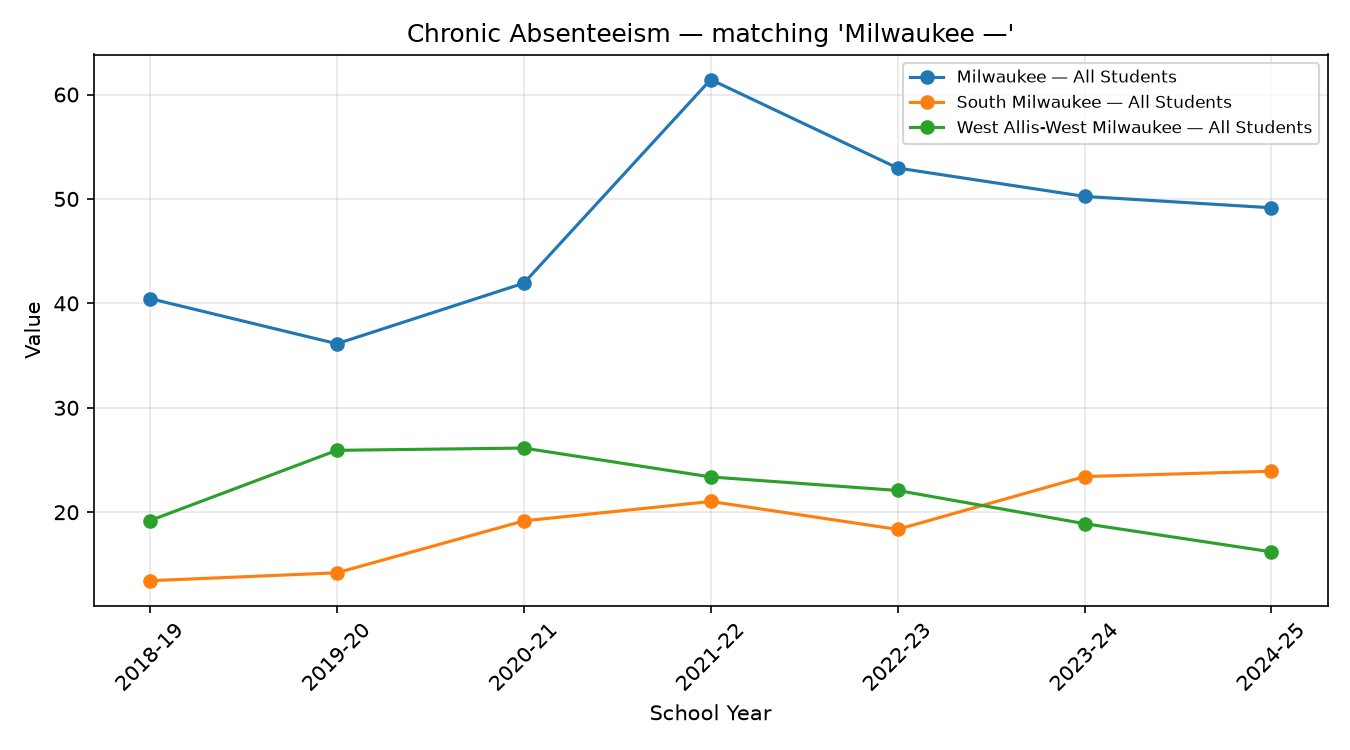
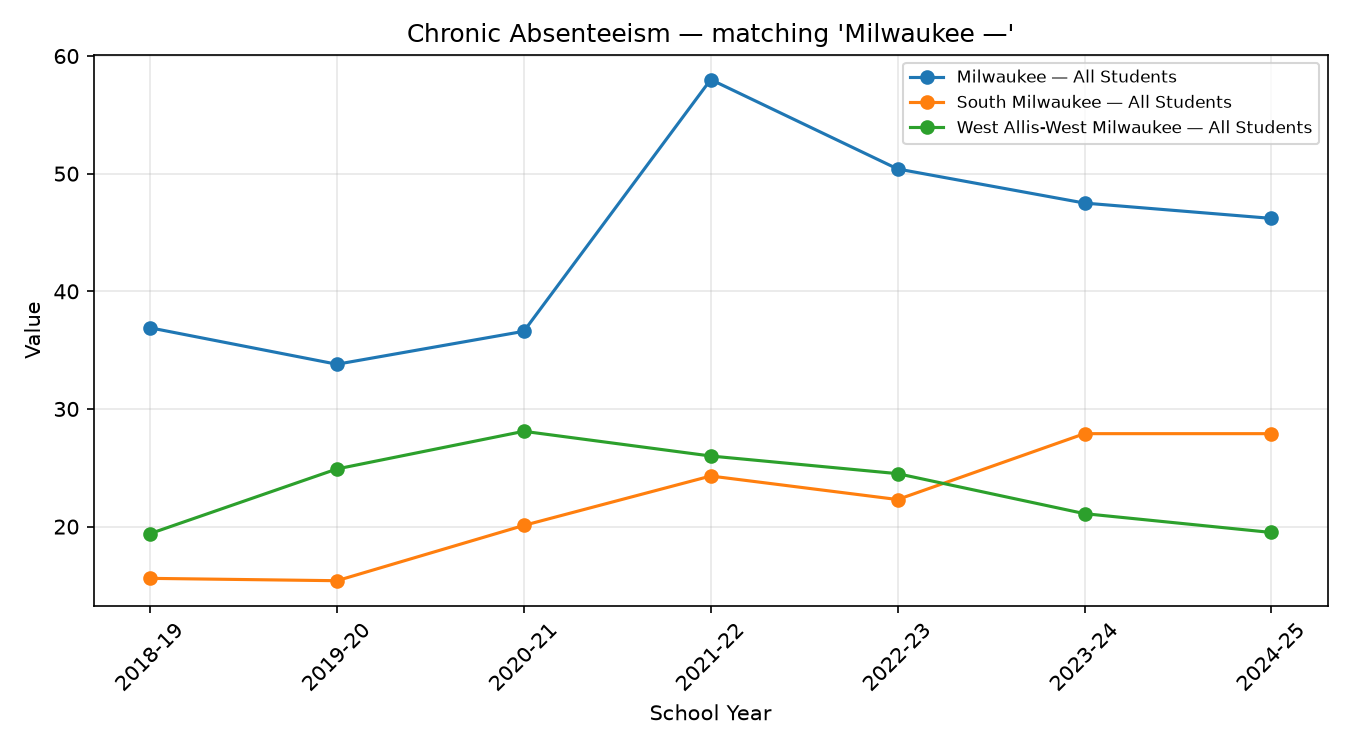
Auto-update Milwaukee data (run 6)

diff --git a/SUMMARY.md b/SUMMARY.md
@@ -1,34 +1,34 @@
 # Weekly Data Flag Summary
 
-- **discipline_incidents** (Glendale-River Hills — All Students) up inf% in 2021-22 (value: 114.0)
-- **discipline_incidents** (Maple Dale-Indian Hill — All Students) up inf% in 2021-22 (value: 19.0)
-- **discipline** (Stellar Collegiate Charter School — All Students) up inf% in 2021-22 (value: 50.0)
-- **discipline_incidents** (Fox Point J2 — All Students) up inf% in 2020-21 (value: 17.0)
-- **discipline** (Fox Point J2 — All Students) up inf% in 2020-21 (value: 17.0)
+- **discipline_incidents** (Stellar Collegiate Charter School — All Students) up inf% in 2021-22 (value: 50.0)
 - **discipline_incidents** (Rocketship Education Wisconsin Inc — All Students) up inf% in 2023-24 (value: 105.0)
-- **discipline** (Milwaukee Scholars Charter School — All Students) up inf% in 2021-22 (value: 133.0)
-- **discipline** (Woodlands School — All Students) up inf% in 2021-22 (value: 10.0)
-- **discipline_incidents** (Central City Cyberschool — All Students) up inf% in 2021-22 (value: 23.0)
-- **discipline** (Rocketship Education Wisconsin Inc — All Students) up inf% in 2023-24 (value: 105.0)
-- **discipline_incidents** (Milwaukee Scholars Charter School — All Students) up inf% in 2021-22 (value: 133.0)
+- **discipline_incidents** (Shorewood — All Students) up inf% in 2021-22 (value: 83.0)
 - **discipline** (Central City Cyberschool — All Students) up inf% in 2021-22 (value: 23.0)
+- **discipline** (Fox Point J2 — All Students) up inf% in 2020-21 (value: 17.0)
+- **discipline_incidents** (Maple Dale-Indian Hill — All Students) up inf% in 2021-22 (value: 19.0)
+- **discipline_incidents** (Glendale-River Hills — All Students) up inf% in 2021-22 (value: 114.0)
+- **discipline_incidents** (Milwaukee Scholars Charter School — All Students) up inf% in 2021-22 (value: 133.0)
+- **discipline_incidents** (Pathways High Inc — All Students) up inf% in 2024-25 (value: 3.0)
+- **discipline** (Woodlands School — All Students) up inf% in 2021-22 (value: 10.0)
+- **discipline** (Glendale-River Hills — All Students) up inf% in 2021-22 (value: 114.0)
+- **discipline** (Milwaukee Scholars Charter School — All Students) up inf% in 2021-22 (value: 133.0)
+- **discipline_incidents** (Woodlands School — All Students) up inf% in 2021-22 (value: 10.0)
+- **discipline** (Rocketship Education Wisconsin Inc — All Students) up inf% in 2023-24 (value: 105.0)
 - **discipline** (Shorewood — All Students) up inf% in 2021-22 (value: 84.0)
 - **discipline** (Maple Dale-Indian Hill — All Students) up inf% in 2021-22 (value: 19.0)
-- **discipline** (Glendale-River Hills — All Students) up inf% in 2021-22 (value: 114.0)
-- **discipline_incidents** (Stellar Collegiate Charter School — All Students) up inf% in 2021-22 (value: 50.0)
-- **discipline_incidents** (Shorewood — All Students) up inf% in 2021-22 (value: 83.0)
-- **discipline_incidents** (Woodlands School — All Students) up inf% in 2021-22 (value: 10.0)
-- **discipline_incidents** (Pathways High Inc — All Students) up inf% in 2024-25 (value: 3.0)
+- **discipline** (Stellar Collegiate Charter School — All Students) up inf% in 2021-22 (value: 50.0)
+- **discipline_incidents** (Fox Point J2 — All Students) up inf% in 2020-21 (value: 17.0)
+- **discipline_incidents** (Central City Cyberschool — All Students) up inf% in 2021-22 (value: 23.0)
 - **discipline** (Milwaukee — All Students) up 264644.4% in 2021-22 (value: 23827.0)
 - **discipline_incidents** (Milwaukee — All Students) up 262600.0% in 2021-22 (value: 23643.0)
-- **discipline** (Milwaukee Academy of Science — All Students) up 33300.0% in 2021-22 (value: 668.0)
 - **discipline_incidents** (Milwaukee Academy of Science — All Students) up 33300.0% in 2021-22 (value: 668.0)
+- **discipline** (Milwaukee Academy of Science — All Students) up 33300.0% in 2021-22 (value: 668.0)
 - **discipline** (Dr Howard Fuller Collegiate Academy — All Students) up 11600.0% in 2021-22 (value: 117.0)
 - **discipline_incidents** (Dr Howard Fuller Collegiate Academy — All Students) up 10800.0% in 2021-22 (value: 109.0)
 - **discipline** (Seeds of Health Inc — All Students) up 1783.3% in 2021-22 (value: 113.0)
 - **discipline_incidents** (Seeds of Health Inc — All Students) up 1783.3% in 2021-22 (value: 113.0)
-- **discipline_incidents** (Brown Deer — All Students) up 1533.3% in 2021-22 (value: 49.0)
 - **discipline** (Brown Deer — All Students) up 1533.3% in 2021-22 (value: 49.0)
+- **discipline_incidents** (Brown Deer — All Students) up 1533.3% in 2021-22 (value: 49.0)
 - **discipline** (West Allis-West Milwaukee — All Students) up 1465.8% in 2021-22 (value: 595.0)
 - **discipline_incidents** (West Allis-West Milwaukee — All Students) up 1444.7% in 2021-22 (value: 587.0)
 - **discipline** (Cudahy — All Students) up 1210.5% in 2021-22 (value: 249.0)
@@ -37,24 +37,24 @@
 - **discipline_incidents** (Woodlands School — All Students) up 1100.0% in 2019-20 (value: 12.0)
 - **chronic_absenteeism** (Greendale — All Students) up 786.5% in 2020-21 (value: 46.1)
 - **chronic_absenteeism** (Maple Dale-Indian Hill — All Students) up 600.0% in 2021-22 (value: 10.5)
-- **discipline** (South Milwaukee — All Students) up 572.3% in 2021-22 (value: 316.0)
 - **discipline_incidents** (South Milwaukee — All Students) up 572.3% in 2021-22 (value: 316.0)
-- **discipline_incidents** (Bruce Guadalupe — All Students) up 550.0% in 2021-22 (value: 52.0)
-- **discipline_incidents** (Escuela Verde — All Students) up 550.0% in 2021-22 (value: 13.0)
+- **discipline** (South Milwaukee — All Students) up 572.3% in 2021-22 (value: 316.0)
 - **discipline** (Bruce Guadalupe — All Students) up 550.0% in 2021-22 (value: 52.0)
+- **discipline_incidents** (Escuela Verde — All Students) up 550.0% in 2021-22 (value: 13.0)
+- **discipline_incidents** (Bruce Guadalupe — All Students) up 550.0% in 2021-22 (value: 52.0)
 - **discipline_incidents** (Glendale-River Hills — All Students) up 407.4% in 2024-25 (value: 137.0)
 - **discipline** (Glendale-River Hills — All Students) up 407.4% in 2024-25 (value: 137.0)
 - **chronic_absenteeism** (Fox Point J2 — All Students) up 388.9% in 2021-22 (value: 4.4)
 - **discipline** (Wauwatosa — All Students) up 362.7% in 2021-22 (value: 620.0)
 - **discipline_incidents** (Wauwatosa — All Students) up 361.9% in 2021-22 (value: 619.0)
 - **chronic_absenteeism** (Shorewood — All Students) up 333.3% in 2021-22 (value: 27.3)
-- **discipline_incidents** (Whitefish Bay — All Students) up 321.4% in 2021-22 (value: 59.0)
 - **discipline** (Whitefish Bay — All Students) up 321.4% in 2021-22 (value: 59.0)
-- **discipline_incidents** (Brown Deer — All Students) up 317.6% in 2023-24 (value: 71.0)
+- **discipline_incidents** (Whitefish Bay — All Students) up 321.4% in 2021-22 (value: 59.0)
 - **discipline** (Brown Deer — All Students) up 317.6% in 2023-24 (value: 71.0)
+- **discipline_incidents** (Brown Deer — All Students) up 317.6% in 2023-24 (value: 71.0)
 - **chronic_absenteeism** (Glendale-River Hills — All Students) up 271.4% in 2021-22 (value: 10.4)
-- **discipline_incidents** (Whitnall — All Students) up 241.1% in 2021-22 (value: 191.0)
 - **discipline** (Whitnall — All Students) up 241.1% in 2021-22 (value: 191.0)
+- **discipline_incidents** (Whitnall — All Students) up 241.1% in 2021-22 (value: 191.0)
 - **discipline_incidents** (Saint Francis — All Students) up 230.6% in 2021-22 (value: 119.0)
 - **discipline** (Saint Francis — All Students) up 230.6% in 2021-22 (value: 119.0)
 - **discipline_incidents** (Trans Center for Youth Inc — All Students) up 214.3% in 2024-25 (value: 22.0)
@@ -70,53 +70,53 @@
 - **discipline** (Nicolet Union High School — All Students) up 132.0% in 2024-25 (value: 58.0)
 - **chronic_absenteeism** (Brown Deer — All Students) up 131.6% in 2021-22 (value: 48.4)
 - **chronic_absenteeism** (Seeds of Health Inc — All Students) up 108.9% in 2020-21 (value: 37.6)
-- **discipline_incidents** (Bruce Guadalupe — All Students) up 104.2% in 2019-20 (value: 49.0)
 - **discipline** (Bruce Guadalupe — All Students) up 104.2% in 2019-20 (value: 49.0)
-- **discipline** (Milwaukee Scholars Charter School — All Students) down 100.0% in 2020-21 (value: 0.0)
-- **discipline_incidents** (Fox Point J2 — All Students) down 100.0% in 2019-20 (value: 0.0)
-- **discipline** (Glendale-River Hills — All Students) down 100.0% in 2020-21 (value: 0.0)
-- **discipline_incidents** (Maple Dale-Indian Hill — All Students) down 100.0% in 2020-21 (value: 0.0)
-- **discipline** (Maple Dale-Indian Hill — All Students) down 100.0% in 2020-21 (value: 0.0)
-- **discipline** (Fox Point J2 — All Students) down 100.0% in 2019-20 (value: 0.0)
-- **discipline** (Central City Cyberschool — All Students) down 100.0% in 2020-21 (value: 0.0)
-- **discipline_incidents** (Central City Cyberschool — All Students) down 100.0% in 2020-21 (value: 0.0)
-- **discipline** (Rocketship Education Wisconsin Inc — All Students) down 100.0% in 2020-21 (value: 0.0)
-- **discipline** (Shorewood — All Students) down 100.0% in 2020-21 (value: 0.0)
-- **discipline_incidents** (Glendale-River Hills — All Students) down 100.0% in 2020-21 (value: 0.0)
-- **discipline** (Woodlands School — All Students) down 100.0% in 2020-21 (value: 0.0)
-- **discipline_incidents** (Rocketship Education Wisconsin Inc — All Students) down 100.0% in 2020-21 (value: 0.0)
-- **discipline_incidents** (Woodlands School — All Students) down 100.0% in 2020-21 (value: 0.0)
-- **discipline_incidents** (Milwaukee Scholars Charter School — All Students) down 100.0% in 2020-21 (value: 0.0)
+- **discipline_incidents** (Bruce Guadalupe — All Students) up 104.2% in 2019-20 (value: 49.0)
 - **discipline_incidents** (Shorewood — All Students) down 100.0% in 2020-21 (value: 0.0)
+- **discipline_incidents** (Milwaukee Scholars Charter School — All Students) down 100.0% in 2020-21 (value: 0.0)
+- **discipline** (Woodlands School — All Students) down 100.0% in 2020-21 (value: 0.0)
+- **discipline** (Rocketship Education Wisconsin Inc — All Students) down 100.0% in 2020-21 (value: 0.0)
+- **discipline_incidents** (Woodlands School — All Students) down 100.0% in 2020-21 (value: 0.0)
+- **discipline** (Shorewood — All Students) down 100.0% in 2020-21 (value: 0.0)
+- **discipline** (Maple Dale-Indian Hill — All Students) down 100.0% in 2020-21 (value: 0.0)
+- **discipline** (Milwaukee Scholars Charter School — All Students) down 100.0% in 2020-21 (value: 0.0)
+- **discipline** (Glendale-River Hills — All Students) down 100.0% in 2020-21 (value: 0.0)
+- **discipline_incidents** (Fox Point J2 — All Students) down 100.0% in 2019-20 (value: 0.0)
+- **discipline** (Central City Cyberschool — All Students) down 100.0% in 2020-21 (value: 0.0)
+- **discipline** (Fox Point J2 — All Students) down 100.0% in 2019-20 (value: 0.0)
+- **discipline_incidents** (Central City Cyberschool — All Students) down 100.0% in 2020-21 (value: 0.0)
+- **discipline_incidents** (Glendale-River Hills — All Students) down 100.0% in 2020-21 (value: 0.0)
+- **discipline_incidents** (Maple Dale-Indian Hill — All Students) down 100.0% in 2020-21 (value: 0.0)
+- **discipline_incidents** (Rocketship Education Wisconsin Inc — All Students) down 100.0% in 2020-21 (value: 0.0)
 - **discipline_incidents** (Milwaukee — All Students) down 99.9% in 2020-21 (value: 9.0)
 - **discipline** (Milwaukee — All Students) down 99.9% in 2020-21 (value: 9.0)
-- **discipline_incidents** (Milwaukee Academy of Science — All Students) down 99.5% in 2020-21 (value: 2.0)
 - **discipline** (Milwaukee Academy of Science — All Students) down 99.5% in 2020-21 (value: 2.0)
+- **discipline_incidents** (Milwaukee Academy of Science — All Students) down 99.5% in 2020-21 (value: 2.0)
 - **discipline** (Dr Howard Fuller Collegiate Academy — All Students) down 98.6% in 2020-21 (value: 1.0)
 - **discipline_incidents** (Dr Howard Fuller Collegiate Academy — All Students) down 98.6% in 2020-21 (value: 1.0)
-- **discipline** (Brown Deer — All Students) down 96.7% in 2020-21 (value: 3.0)
 - **discipline_incidents** (Brown Deer — All Students) down 96.7% in 2020-21 (value: 3.0)
+- **discipline** (Brown Deer — All Students) down 96.7% in 2020-21 (value: 3.0)
 - **discipline_incidents** (Woodlands School - State Street Campus — All Students) down 94.6% in 2019-20 (value: 2.0)
 - **discipline** (Woodlands School - State Street Campus — All Students) down 94.6% in 2019-20 (value: 2.0)
 - **discipline** (Seeds of Health Inc — All Students) down 94.2% in 2020-21 (value: 6.0)
 - **discipline_incidents** (Seeds of Health Inc — All Students) down 94.1% in 2020-21 (value: 6.0)
 - **chronic_absenteeism** (Wauwatosa — All Students) up 93.2% in 2020-21 (value: 22.6)
-- **discipline** (West Allis-West Milwaukee — All Students) down 91.4% in 2020-21 (value: 38.0)
 - **discipline_incidents** (West Allis-West Milwaukee — All Students) down 91.4% in 2020-21 (value: 38.0)
+- **discipline** (West Allis-West Milwaukee — All Students) down 91.4% in 2020-21 (value: 38.0)
 - **discipline** (Greendale — All Students) up 89.1% in 2022-23 (value: 121.0)
 - **chronic_absenteeism** (Greenfield — All Students) up 86.5% in 2021-22 (value: 17.9)
 - **discipline_incidents** (Greendale — All Students) up 85.9% in 2022-23 (value: 119.0)
 - **chronic_absenteeism** (Greendale — All Students) down 84.6% in 2021-22 (value: 7.1)
-- **discipline** (Whitefish Bay — All Students) down 84.1% in 2024-25 (value: 13.0)
 - **discipline_incidents** (Whitefish Bay — All Students) down 84.1% in 2024-25 (value: 13.0)
-- **discipline_incidents** (Bruce Guadalupe — All Students) down 83.7% in 2020-21 (value: 8.0)
+- **discipline** (Whitefish Bay — All Students) down 84.1% in 2024-25 (value: 13.0)
 - **discipline** (Bruce Guadalupe — All Students) down 83.7% in 2020-21 (value: 8.0)
+- **discipline_incidents** (Bruce Guadalupe — All Students) down 83.7% in 2020-21 (value: 8.0)
 - **chronic_absenteeism** (Fox Point J2 — All Students) down 83.6% in 2020-21 (value: 0.9)
 - **chronic_absenteeism** (Saint Francis — All Students) up 82.2% in 2021-22 (value: 35.9)
 - **discipline** (Central City Cyberschool — All Students) up 81.6% in 2019-20 (value: 69.0)
-- **discipline** (Cudahy — All Students) down 81.6% in 2020-21 (value: 19.0)
 - **discipline_incidents** (Cudahy — All Students) down 81.6% in 2020-21 (value: 19.0)
 - **discipline_incidents** (Central City Cyberschool — All Students) up 81.6% in 2019-20 (value: 69.0)
+- **discipline** (Cudahy — All Students) down 81.6% in 2020-21 (value: 19.0)
 - **discipline_incidents** (South Milwaukee — All Students) down 80.7% in 2020-21 (value: 47.0)
 - **discipline** (South Milwaukee — All Students) down 80.7% in 2020-21 (value: 47.0)
 - **discipline** (Nicolet UHS — All Students) down 80.6% in 2020-21 (value: 7.0)
@@ -129,16 +129,16 @@
 - **chronic_absenteeism** (Fox Point J2 — All Students) up 72.7% in 2022-23 (value: 7.6)
 - **discipline_incidents** (Glendale-River Hills — All Students) down 72.5% in 2019-20 (value: 11.0)
 - **discipline** (Glendale-River Hills — All Students) down 72.5% in 2019-20 (value: 11.0)
-- **discipline_incidents** (Seeds of Health Inc — All Students) up 70.8% in 2022-23 (value: 193.0)
 - **discipline** (Seeds of Health Inc — All Students) up 70.8% in 2022-23 (value: 193.0)
-- **discipline** (Wauwatosa — All Students) down 66.7% in 2020-21 (value: 134.0)
+- **discipline_incidents** (Seeds of Health Inc — All Students) up 70.8% in 2022-23 (value: 193.0)
 - **discipline_incidents** (Wauwatosa — All Students) down 66.7% in 2020-21 (value: 134.0)
-- **discipline_incidents** (Whitefish Bay — All Students) down 66.7% in 2020-21 (value: 14.0)
 - **discipline** (Whitefish Bay — All Students) down 66.7% in 2020-21 (value: 14.0)
+- **discipline_incidents** (Whitefish Bay — All Students) down 66.7% in 2020-21 (value: 14.0)
+- **discipline** (Wauwatosa — All Students) down 66.7% in 2020-21 (value: 134.0)
 - **discipline** (Greendale — All Students) down 66.1% in 2020-21 (value: 21.0)
 - **discipline_incidents** (Greendale — All Students) down 66.1% in 2020-21 (value: 21.0)
-- **discipline_incidents** (Brown Deer — All Students) down 65.3% in 2022-23 (value: 17.0)
 - **discipline** (Brown Deer — All Students) down 65.3% in 2022-23 (value: 17.0)
+- **discipline_incidents** (Brown Deer — All Students) down 65.3% in 2022-23 (value: 17.0)
 - **discipline** (Saint Francis — All Students) down 65.0% in 2020-21 (value: 36.0)
 - **discipline_incidents** (Saint Francis — All Students) down 65.0% in 2020-21 (value: 36.0)
 - **chronic_absenteeism** (Milwaukee Scholars Charter School — All Students) up 63.5% in 2021-22 (value: 59.2)
@@ -154,15 +154,15 @@
 - **discipline_incidents** (Cudahy — All Students) down 60.2% in 2019-20 (value: 103.0)
 - **chronic_absenteeism** (Woodlands School — All Students) up 59.4% in 2021-22 (value: 33.8)
 - **chronic_absenteeism** (Milwaukee — All Students) up 58.5% in 2021-22 (value: 58.0)
-- **discipline_incidents** (Glendale-River Hills — All Students) down 57.0% in 2022-23 (value: 49.0)
 - **discipline** (Glendale-River Hills — All Students) down 57.0% in 2022-23 (value: 49.0)
+- **discipline_incidents** (Glendale-River Hills — All Students) down 57.0% in 2022-23 (value: 49.0)
 - **discipline** (Milwaukee Science Education Consortium Inc — All Students) up 56.4% in 2024-25 (value: 760.0)
 - **discipline_incidents** (Milwaukee Science Education Consortium Inc — All Students) up 56.4% in 2024-25 (value: 760.0)
-- **discipline** (Milwaukee Scholars Charter School — All Students) down 54.7% in 2019-20 (value: 186.0)
 - **discipline_incidents** (Milwaukee Scholars Charter School — All Students) down 54.7% in 2019-20 (value: 186.0)
 - **chronic_absenteeism** (Whitefish Bay — All Students) down 54.7% in 2023-24 (value: 2.4)
-- **discipline** (Maple Dale-Indian Hill — All Students) down 52.6% in 2022-23 (value: 9.0)
+- **discipline** (Milwaukee Scholars Charter School — All Students) down 54.7% in 2019-20 (value: 186.0)
 - **discipline_incidents** (Maple Dale-Indian Hill — All Students) down 52.6% in 2022-23 (value: 9.0)
+- **discipline** (Maple Dale-Indian Hill — All Students) down 52.6% in 2022-23 (value: 9.0)
 - **discipline_incidents** (Whitnall — All Students) down 52.5% in 2020-21 (value: 56.0)
 - **discipline** (Whitnall — All Students) down 52.5% in 2020-21 (value: 56.0)
 - **discipline_incidents** (United Community Center Acosta Middle — All Students) down 52.1% in 2019-20 (value: 23.0)
@@ -171,28 +171,28 @@
 - **chronic_absenteeism** (Shorewood — All Students) down 50.4% in 2020-21 (value: 6.3)
 - **discipline_incidents** (Maple Dale-Indian Hill — All Students) up 50.0% in 2019-20 (value: 15.0)
 - **discipline_incidents** (Nicolet Union High School — All Students) down 50.0% in 2022-23 (value: 35.0)
-- **discipline** (Rocketship Education Wisconsin Inc — All Students) down 50.0% in 2019-20 (value: 5.0)
 - **discipline_incidents** (Rocketship Education Wisconsin Inc — All Students) down 50.0% in 2019-20 (value: 5.0)
 - **discipline** (Maple Dale-Indian Hill — All Students) up 50.0% in 2019-20 (value: 15.0)
+- **discipline** (Rocketship Education Wisconsin Inc — All Students) down 50.0% in 2019-20 (value: 5.0)
 - **discipline_incidents** (Shorewood — All Students) down 49.4% in 2023-24 (value: 42.0)
 - **discipline** (Nicolet Union High School — All Students) down 49.3% in 2022-23 (value: 36.0)
 - **discipline** (Oak Creek-Franklin Joint — All Students) down 48.2% in 2020-21 (value: 144.0)
 - **chronic_absenteeism** (Shorewood — All Students) down 48.1% in 2023-24 (value: 12.4)
 - **discipline_incidents** (Oak Creek-Franklin Joint — All Students) down 47.4% in 2020-21 (value: 144.0)
 - **discipline_incidents** (Saint Francis — All Students) up 47.1% in 2024-25 (value: 128.0)
-- **chronic_absenteeism** (Greenfield — All Students) down 47.1% in 2019-20 (value: 5.4)
 - **discipline** (Saint Francis — All Students) up 47.1% in 2024-25 (value: 128.0)
+- **chronic_absenteeism** (Greenfield — All Students) down 47.1% in 2019-20 (value: 5.4)
 - **discipline** (Whitnall — All Students) down 46.7% in 2023-24 (value: 114.0)
 - **discipline_incidents** (Whitnall — All Students) down 46.7% in 2023-24 (value: 114.0)
 - **discipline** (Shorewood — All Students) down 46.5% in 2023-24 (value: 46.0)
 - **chronic_absenteeism** (Oak Creek-Franklin Joint — All Students) up 46.3% in 2021-22 (value: 15.8)
-- **discipline** (United Community Center Inc — All Students) down 46.2% in 2024-25 (value: 57.0)
 - **discipline_incidents** (United Community Center Inc — All Students) down 46.2% in 2024-25 (value: 57.0)
+- **discipline** (United Community Center Inc — All Students) down 46.2% in 2024-25 (value: 57.0)
 - **chronic_absenteeism** (Seeds of Health Inc — All Students) up 45.2% in 2019-20 (value: 18.0)
 - **discipline_incidents** (Glendale-River Hills — All Students) down 44.9% in 2023-24 (value: 27.0)
 - **discipline** (Glendale-River Hills — All Students) down 44.9% in 2023-24 (value: 27.0)
-- **discipline_incidents** (Rocketship Education Wisconsin Inc — All Students) down 43.8% in 2024-25 (value: 59.0)
 - **discipline** (Rocketship Education Wisconsin Inc — All Students) down 43.8% in 2024-25 (value: 59.0)
+- **discipline_incidents** (Rocketship Education Wisconsin Inc — All Students) down 43.8% in 2024-25 (value: 59.0)
 - **discipline** (Woodlands School Inc — All Students) up 43.2% in 2024-25 (value: 63.0)
 - **discipline_incidents** (Woodlands School Inc — All Students) up 43.2% in 2024-25 (value: 63.0)
 - **chronic_absenteeism** (Nicolet Union High School — All Students) up 42.1% in 2022-23 (value: 8.1)
@@ -201,10 +201,10 @@
 - **discipline_incidents** (Fox Point J2 — All Students) up 41.2% in 2021-22 (value: 24.0)
 - **chronic_absenteeism** (Milwaukee Academy of Science — All Students) up 41.0% in 2020-21 (value: 42.3)
 - **discipline_incidents** (Oak Creek-Franklin Joint — All Students) down 40.6% in 2019-20 (value: 274.0)
-- **discipline** (Oak Creek-Franklin Joint — All Students) down 40.3% in 2019-20 (value: 278.0)
 - **chronic_absenteeism** (Maple Dale-Indian Hill — All Students) down 40.3% in 2024-25 (value: 4.0)
-- **discipline_incidents** (Greenfield — All Students) down 40.1% in 2020-21 (value: 103.0)
+- **discipline** (Oak Creek-Franklin Joint — All Students) down 40.3% in 2019-20 (value: 278.0)
 - **chronic_absenteeism** (Saint Francis — All Students) down 40.1% in 2022-23 (value: 21.5)
+- **discipline_incidents** (Greenfield — All Students) down 40.1% in 2020-21 (value: 103.0)
 - **discipline** (Central City Cyberschool of Milwaukee Inc — All Students) up 40.0% in 2024-25 (value: 28.0)
 - **discipline_incidents** (Central City Cyberschool of Milwaukee Inc — All Students) up 40.0% in 2024-25 (value: 28.0)
 - **discipline** (Brown Deer — All Students) up 39.4% in 2024-25 (value: 99.0)
@@ -215,16 +215,16 @@
 - **discipline_incidents** (Brown Deer — All Students) up 38.0% in 2024-25 (value: 98.0)
 - **discipline_incidents** (Whitnall — All Students) down 37.9% in 2019-20 (value: 118.0)
 - **discipline** (Whitnall — All Students) down 37.9% in 2019-20 (value: 118.0)
-- **discipline** (Greendale — All Students) down 37.4% in 2019-20 (value: 62.0)
 - **discipline_incidents** (Greendale — All Students) down 37.4% in 2019-20 (value: 62.0)
+- **discipline** (Greendale — All Students) down 37.4% in 2019-20 (value: 62.0)
 - **chronic_absenteeism** (Franklin Public — All Students) up 35.6% in 2022-23 (value: 9.9)
 - **discipline** (Seeds of Health Inc — All Students) up 35.5% in 2019-20 (value: 103.0)
-- **discipline_incidents** (Seeds of Health Inc — All Students) up 32.9% in 2019-20 (value: 101.0)
 - **discipline** (West Allis-West Milwaukee — All Students) up 32.9% in 2024-25 (value: 921.0)
+- **discipline_incidents** (Seeds of Health Inc — All Students) up 32.9% in 2019-20 (value: 101.0)
 - **chronic_absenteeism** (Glendale-River Hills — All Students) down 32.6% in 2024-25 (value: 8.9)
 - **discipline_incidents** (Whitefish Bay — All Students) up 32.3% in 2023-24 (value: 82.0)
-- **discipline_incidents** (Saint Francis — All Students) down 32.2% in 2019-20 (value: 103.0)
 - **discipline** (Saint Francis — All Students) down 32.2% in 2019-20 (value: 103.0)
+- **discipline_incidents** (Saint Francis — All Students) down 32.2% in 2019-20 (value: 103.0)
 - **discipline_incidents** (West Allis-West Milwaukee — All Students) up 31.2% in 2024-25 (value: 899.0)
 - **chronic_absenteeism** (Wauwatosa — All Students) down 31.2% in 2023-24 (value: 11.7)
 - **discipline** (Greenfield — All Students) up 30.8% in 2023-24 (value: 505.0)
@@ -232,31 +232,31 @@
 - **discipline** (Nicolet Union High School — All Students) down 30.6% in 2023-24 (value: 25.0)
 - **chronic_absenteeism** (South Milwaukee — All Students) up 30.5% in 2020-21 (value: 20.1)
 - **discipline** (Whitefish Bay — All Students) up 30.2% in 2023-24 (value: 82.0)
-- **discipline_incidents** (Greendale — All Students) up 29.8% in 2024-25 (value: 122.0)
 - **chronic_absenteeism** (Glendale-River Hills — All Students) up 29.8% in 2022-23 (value: 13.5)
+- **discipline_incidents** (Greendale — All Students) up 29.8% in 2024-25 (value: 122.0)
 - **discipline_incidents** (Wauwatosa — All Students) up 29.6% in 2019-20 (value: 403.0)
 - **discipline** (Wauwatosa — All Students) up 29.6% in 2019-20 (value: 403.0)
-- **discipline_incidents** (Greenfield — All Students) up 29.5% in 2023-24 (value: 487.0)
 - **chronic_absenteeism** (Maple Dale-Indian Hill — All Students) down 29.5% in 2022-23 (value: 7.4)
+- **discipline_incidents** (Greenfield — All Students) up 29.5% in 2023-24 (value: 487.0)
 - **chronic_absenteeism** (Whitefish Bay — All Students) up 29.3% in 2022-23 (value: 5.3)
 - **chronic_absenteeism** (Milwaukee Academy of Science — All Students) up 29.1% in 2021-22 (value: 54.6)
-- **discipline** (Whitnall — All Students) up 28.9% in 2024-25 (value: 147.0)
 - **discipline_incidents** (Whitnall — All Students) up 28.9% in 2024-25 (value: 147.0)
+- **discipline** (Whitnall — All Students) up 28.9% in 2024-25 (value: 147.0)
 - **discipline** (Franklin Public — All Students) up 28.7% in 2022-23 (value: 139.0)
 - **discipline_incidents** (Franklin Public — All Students) up 28.7% in 2022-23 (value: 139.0)
-- **discipline** (Milwaukee — All Students) down 28.6% in 2019-20 (value: 16529.0)
 - **discipline_incidents** (Nicolet Union High School — All Students) down 28.6% in 2023-24 (value: 25.0)
+- **discipline** (Milwaukee — All Students) down 28.6% in 2019-20 (value: 16529.0)
 - **chronic_absenteeism** (West Allis-West Milwaukee — All Students) up 28.4% in 2019-20 (value: 24.9)
-- **discipline** (Greendale — All Students) up 28.4% in 2024-25 (value: 122.0)
 - **discipline_incidents** (Milwaukee — All Students) down 28.4% in 2019-20 (value: 16439.0)
+- **discipline** (Greendale — All Students) up 28.4% in 2024-25 (value: 122.0)
 - **chronic_absenteeism** (Fox Point J2 — All Students) down 28.1% in 2024-25 (value: 4.6)
 - **discipline_incidents** (Greenfield — All Students) down 27.1% in 2019-20 (value: 172.0)
 - **discipline** (Seeds of Health Inc — All Students) down 26.9% in 2023-24 (value: 141.0)
 - **discipline_incidents** (Seeds of Health Inc — All Students) down 26.9% in 2023-24 (value: 141.0)
 - **chronic_absenteeism** (Brown Deer — All Students) down 26.7% in 2022-23 (value: 35.5)
 - **chronic_absenteeism** (Central City Cyberschool — All Students) up 25.9% in 2021-22 (value: 59.8)
-- **enrollment** (Seeds of Health Inc — All Students) up 25.8% in 2020-21 (value: 1147.0)
 - **chronic_absenteeism** (Central City Cyberschool of Milwaukee Inc — All Students) down 25.8% in 2024-25 (value: 34.0)
+- **enrollment** (Seeds of Health Inc — All Students) up 25.8% in 2020-21 (value: 1147.0)
 - **chronic_absenteeism** (United Community Center Inc — All Students) down 25.8% in 2024-25 (value: 16.4)
 - **discipline** (Greenfield — All Students) down 25.5% in 2019-20 (value: 178.0)
 - **discipline** (West Allis-West Milwaukee — All Students) down 25.4% in 2019-20 (value: 443.0)
@@ -274,50 +274,53 @@
 - **enrollment** (Milwaukee Science Education Consortium Inc — All Students) up 21.9% in 2024-25 (value: 1711.0)
 - **chronic_absenteeism** (Shorewood — All Students) down 21.8% in 2024-25 (value: 9.7)
 - **chronic_absenteeism** (Franklin Public — All Students) up 21.7% in 2021-22 (value: 7.3)
+- **report_card** (West Allis-West Milwaukee — All Students) down 21.6% in 2020-21 (value: 55.9)
 - **discipline** (Greendale — All Students) down 21.5% in 2023-24 (value: 95.0)
 - **discipline_incidents** (Greendale — All Students) down 21.0% in 2023-24 (value: 94.0)
 - **chronic_absenteeism** (South Milwaukee — All Students) up 20.9% in 2021-22 (value: 24.3)
 - **chronic_absenteeism** (Rocketship Education Wisconsin Inc — All Students) down 20.8% in 2021-22 (value: 46.0)
-- **discipline_incidents** (Whitefish Bay — All Students) down 20.8% in 2019-20 (value: 42.0)
 - **discipline** (Whitefish Bay — All Students) down 20.8% in 2019-20 (value: 42.0)
-- **discipline_incidents** (Franklin Public — All Students) down 20.7% in 2019-20 (value: 96.0)
+- **discipline_incidents** (Whitefish Bay — All Students) down 20.8% in 2019-20 (value: 42.0)
 - **discipline** (Franklin Public — All Students) down 20.7% in 2019-20 (value: 96.0)
+- **discipline_incidents** (Franklin Public — All Students) down 20.7% in 2019-20 (value: 96.0)
 - **discipline** (Franklin Public — All Students) up 19.2% in 2024-25 (value: 174.0)
 - **discipline_incidents** (Franklin Public — All Students) up 19.2% in 2024-25 (value: 174.0)
 - **discipline_incidents** (Shorewood — All Students) up 19.0% in 2024-25 (value: 50.0)
 - **discipline** (Oak Creek-Franklin Joint — All Students) up 18.8% in 2022-23 (value: 437.0)
 - **discipline_incidents** (Oak Creek-Franklin Joint — All Students) up 18.6% in 2022-23 (value: 427.0)
-- **chronic_absenteeism** (Bruce Guadalupe — All Students) down 18.2% in 2019-20 (value: 6.3)
 - **chronic_absenteeism** (Whitnall — All Students) up 18.2% in 2020-21 (value: 10.4)
+- **chronic_absenteeism** (Bruce Guadalupe — All Students) down 18.2% in 2019-20 (value: 6.3)
+- **discipline_incidents** (West Allis-West Milwaukee — All Students) up 18.1% in 2023-24 (value: 685.0)
 - **chronic_absenteeism** (Saint Francis — All Students) down 18.1% in 2023-24 (value: 17.6)
 - **discipline_incidents** (South Milwaukee — All Students) up 18.1% in 2023-24 (value: 339.0)
-- **discipline_incidents** (West Allis-West Milwaukee — All Students) up 18.1% in 2023-24 (value: 685.0)
+- **report_card** (South Milwaukee — All Students) down 18.0% in 2020-21 (value: 58.7)
 - **discipline_incidents** (Greenfield — All Students) up 17.9% in 2022-23 (value: 376.0)
 - **discipline_incidents** (Shorewood — All Students) down 17.6% in 2019-20 (value: 14.0)
 - **chronic_absenteeism** (Milwaukee Scholars Charter School — All Students) up 17.5% in 2020-21 (value: 36.2)
-- **discipline_incidents** (Fox Point J2 — All Students) down 17.4% in 2023-24 (value: 19.0)
 - **discipline** (Fox Point J2 — All Students) down 17.4% in 2023-24 (value: 19.0)
+- **discipline_incidents** (Fox Point J2 — All Students) down 17.4% in 2023-24 (value: 19.0)
 - **discipline** (Greenfield — All Students) up 17.3% in 2022-23 (value: 386.0)
 - **chronic_absenteeism** (Maple Dale-Indian Hill — All Students) up 17.2% in 2019-20 (value: 6.8)
 - **chronic_absenteeism** (Cudahy — All Students) up 17.2% in 2020-21 (value: 28.0)
 - **enrollment** (Rocketship Education Wisconsin Inc — All Students) up 17.0% in 2019-20 (value: 669.0)
-- **chronic_absenteeism** (Cudahy — All Students) up 16.8% in 2021-22 (value: 32.7)
 - **discipline** (South Milwaukee — All Students) up 16.8% in 2023-24 (value: 340.0)
+- **chronic_absenteeism** (Cudahy — All Students) up 16.8% in 2021-22 (value: 32.7)
 - **chronic_absenteeism** (Central City Cyberschool — All Students) up 16.7% in 2019-20 (value: 27.2)
-- **discipline** (Oak Creek-Franklin Joint — All Students) down 16.2% in 2023-24 (value: 366.0)
+- **report_card** (Cudahy — All Students) down 16.5% in 2020-21 (value: 57.5)
 - **enrollment** (Rocketship Education Wisconsin Inc — All Students) up 16.2% in 2024-25 (value: 731.0)
+- **discipline** (Oak Creek-Franklin Joint — All Students) down 16.2% in 2023-24 (value: 366.0)
 - **chronic_absenteeism** (Saint Francis — All Students) up 15.9% in 2024-25 (value: 20.4)
 - **chronic_absenteeism** (Fox Point J2 — All Students) down 15.8% in 2023-24 (value: 6.4)
-- **discipline_incidents** (Oak Creek-Franklin Joint — All Students) down 15.7% in 2023-24 (value: 360.0)
 - **discipline** (Milwaukee Academy of Science — All Students) up 15.7% in 2019-20 (value: 413.0)
 - **discipline_incidents** (Milwaukee Academy of Science — All Students) up 15.7% in 2019-20 (value: 413.0)
+- **discipline_incidents** (Oak Creek-Franklin Joint — All Students) down 15.7% in 2023-24 (value: 360.0)
 - **chronic_absenteeism** (Greenfield — All Students) down 15.6% in 2022-23 (value: 15.1)
 - **chronic_absenteeism** (Franklin Public — All Students) down 15.6% in 2024-25 (value: 7.6)
-- **discipline_incidents** (Cudahy — All Students) down 15.5% in 2023-24 (value: 202.0)
 - **chronic_absenteeism** (Greendale — All Students) up 15.5% in 2022-23 (value: 8.2)
+- **discipline_incidents** (Cudahy — All Students) down 15.5% in 2023-24 (value: 202.0)
 - **chronic_absenteeism** (Franklin Public — All Students) up 15.4% in 2020-21 (value: 6.0)
 - **chronic_absenteeism** (Seeds of Health Inc — All Students) up 15.4% in 2021-22 (value: 43.4)
+- **discipline** (Cudahy — All Students) down 15.1% in 2023-24 (value: 203.0)
 - **discipline** (Saint Francis — All Students) down 15.1% in 2022-23 (value: 101.0)
 - **discipline_incidents** (Saint Francis — All Students) down 15.1% in 2022-23 (value: 101.0)
-- **discipline** (Cudahy — All Students) down 15.1% in 2023-24 (value: 203.0)
 - **enrollment** (Central City Cyberschool — All Students) up 15.0% in 2019-20 (value: 474.0)